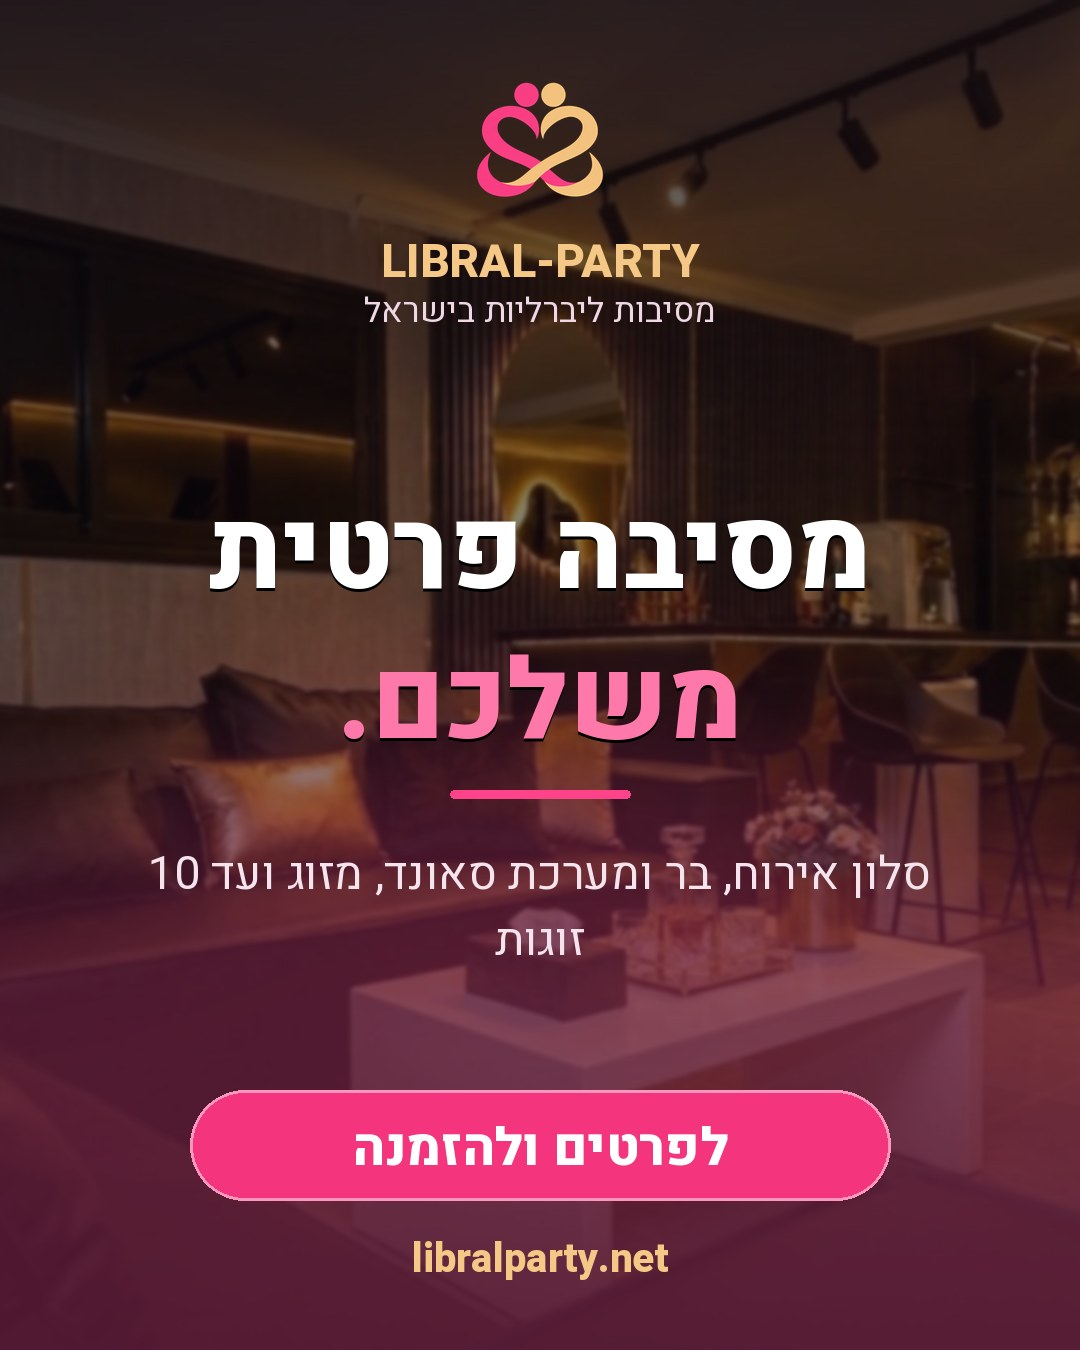
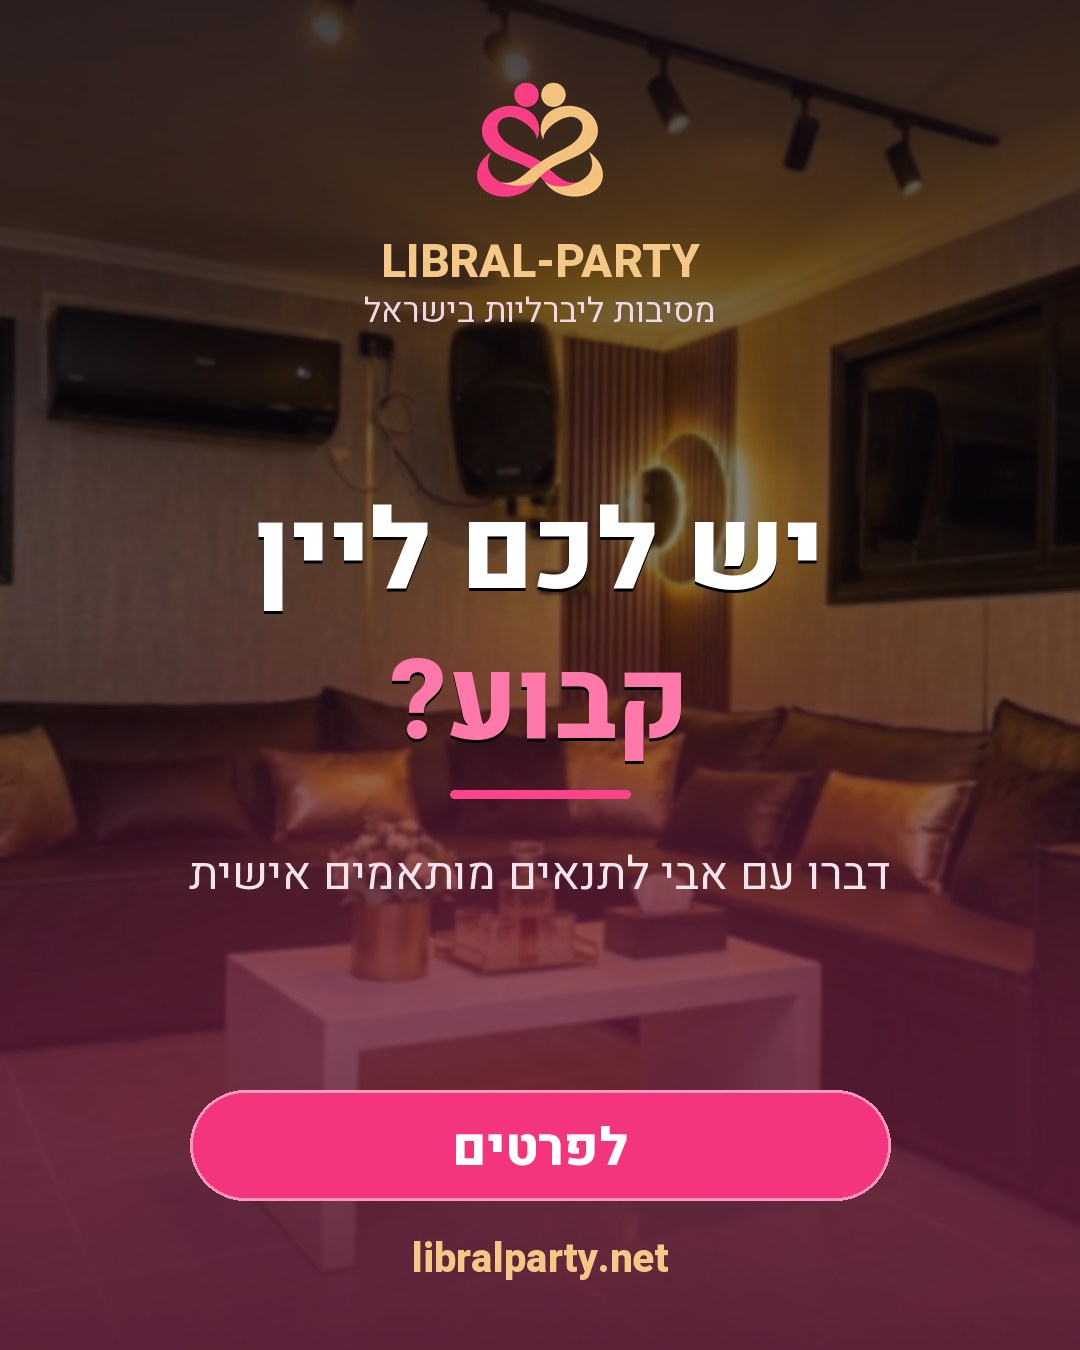
Monthly Telegram campaigns refresh (2026-11)
Claude-Session: https://claude.ai/code/session_01MnETpxBKVPfyu1WyzPnxXv

diff --git a/shared/telegramCampaigns.js b/shared/telegramCampaigns.js
@@ -1,64 +1,64 @@
 // Generated by scripts/campaigns/make_campaigns.py — do not edit by hand.
-export const TELEGRAM_CAMPAIGNS_VERSION = "2026-10-28";
+export const TELEGRAM_CAMPAIGNS_VERSION = "2026-11-01";
 export const TELEGRAM_CAMPAIGNS = [
   {
     "id": "c01",
     "image": "https://www.libralparty.net/assets/campaigns/c01.jpg",
-    "caption": "📣 עדכון חשוב: LIBRAL PARTY בניהול חדש!\nהאתר עובר לניהול של אבי סווינגרס. כל המסיבות של המועדון מופיעות באתר, וההרשמה נעשית בוואטסאפ מול אבי.\n\n👇 כל המסיבות באתר:\nhttps://www.libralparty.net/"
+    "caption": "🆕 האתר של המועדון של אבי סווינגרס מחכה לכם!\nכל המסיבות הקרובות בדף אחד, וההרשמה בהודעה אחת בוואטסאפ.\n\n👇 כניסה לאתר:\nhttps://www.libralparty.net/"
   },
   {
     "id": "c02",
     "image": "https://www.libralparty.net/assets/campaigns/c02.jpg",
-    "caption": "✨ הסוויטה הליברלית פתוחה להזמנות!\nסוויטת אירוח יוקרתית, מזוג אחד ועד 10 זוגות, עם פרטיות מלאה.\n\n👇 כל הפרטים והמחירון:\nhttps://www.libralparty.net/liberal-suite"
+    "caption": "🍸 ערב פרטי בסוויטה הליברלית!\nסלון אירוח מפנק עם בר יוקרתי, מערכות סאונד מתקדמות ואזור מרווח לריקודים.\n\n👇 לפרטים ולהזמנה:\nhttps://www.libralparty.net/liberal-suite"
   },
   {
     "id": "c03",
     "image": "https://www.libralparty.net/assets/campaigns/c03.jpg",
-    "caption": "🔥 המסיבות של המועדון של אבי סווינגרס!\nכל התאריכים הקרובים מופיעים באתר. בוחרים מסיבה ונרשמים בוואטסאפ מול אבי.\n\n👇 המסיבות הקרובות:\nhttps://www.libralparty.net/events"
+    "caption": "🎶 מה קורה בסוף השבוע?\nכל המסיבות הקרובות של המועדון באתר, עם התאריכים.\n\n👇 בוחרים לילה:\nhttps://www.libralparty.net/events"
   },
   {
     "id": "c04",
     "image": "https://www.libralparty.net/assets/campaigns/c04.jpg",
-    "caption": "🎂 יום הולדת שלא שוכחים!\nימי הולדת ומסיבות פרטיות ברמת פרימיום, בסוויטה הליברלית.\n\n👇 לפרטים ולהזמנה:\nhttps://www.libralparty.net/liberal-suite"
+    "caption": "🛏 סוויטה ברמה אחרת!\nחלל מעוצב ברמת גימור גבוהה, עם מיטות ענק יוקרתיות.\n\n👇 לפרטים ולהזמנה:\nhttps://www.libralparty.net/liberal-suite"
   },
   {
     "id": "c05",
     "image": "https://www.libralparty.net/assets/campaigns/c05.jpg",
-    "caption": "💬 ההרשמה למסיבות פשוטה!\nבוחרים מסיבה באתר, לוחצים על \"הרשמה בוואטסאפ\" ושולחים הודעה לאבי. הוא חוזר אליכם עם כל הפרטים.\n\n👇 בוחרים מסיבה:\nhttps://www.libralparty.net/events"
+    "caption": "💬 הודעה אחת וסגרתם מסיבה!\nלוחצים על \"הרשמה בוואטסאפ\" ליד המסיבה, ואבי חוזר אליכם עם כל הפרטים.\n\n👇 בוחרים מסיבה:\nhttps://www.libralparty.net/events"
   },
   {
     "id": "c06",
     "image": "https://www.libralparty.net/assets/campaigns/c06.jpg",
-    "caption": "🌙 חדש בסוויטה הליברלית: אפטרים גם בלילה!\nשש שעות של חופש, על בסיס מקום פנוי.\n\n👇 לבדיקת זמינות:\nhttps://www.libralparty.net/liberal-suite"
+    "caption": "🌙 אפטר בלילה? אפשר!\nשש שעות בסוויטה הליברלית, על בסיס מקום פנוי. לבדיקת זמינות פונים לאבי.\n\n👇 לפרטים:\nhttps://www.libralparty.net/liberal-suite"
   },
   {
     "id": "c07",
     "image": "https://www.libralparty.net/assets/campaigns/c07.jpg",
-    "caption": "🎉 סוף השבוע מתחיל במועדון של אבי סווינגרס!\nכל המסיבות הקרובות באתר, וההרשמה בוואטסאפ.\n\n👇 המסיבות הקרובות:\nhttps://www.libralparty.net/events"
+    "caption": "📅 מפנים מקום ביומן!\nלוח המסיבות של המועדון מחכה לכם, תאריך אחרי תאריך.\n\n👇 ללוח האירועים:\nhttps://www.libralparty.net/calendar"
   },
   {
     "id": "c08",
     "image": "https://www.libralparty.net/assets/campaigns/c08.jpg",
-    "caption": "🌹 ערב זוגי ברמה אחרת.\nלינה וערב רומנטי ומיוחד בסוויטה הליברלית, בפרטיות מלאה.\n\n👇 לפרטים ולהזמנה:\nhttps://www.libralparty.net/liberal-suite"
+    "caption": "🥂 מזוג אחד ועד עשרה זוגות!\nסוויטת אירוח אקסקלוסיבית, בפרטיות מלאה.\n\n👇 לפרטים ולהזמנה:\nhttps://www.libralparty.net/liberal-suite"
   },
   {
     "id": "c09",
     "image": "https://www.libralparty.net/assets/campaigns/c09.jpg",
-    "caption": "📅 כל המסיבות של המועדון בלוח אחד!\nמפנים מקום ביומן ובוחרים את הלילה הבא.\n\n👇 ללוח האירועים:\nhttps://www.libralparty.net/calendar"
+    "caption": "✨ ערב בלתי נשכח מחכה במועדון של אבי סווינגרס!\nכל המסיבות הקרובות באתר.\n\n👇 למסיבות:\nhttps://www.libralparty.net/events"
   },
   {
     "id": "c10",
     "image": "https://www.libralparty.net/assets/campaigns/c10.jpg",
-    "caption": "🖤 מתחם אבזור מושקע בסוויטה הליברלית!\nנדנדת פליי, חמור, ספת טנטרה וצלב, וחדר רחצה מרהיב.\n\n👇 לכל הפרטים:\nhttps://www.libralparty.net/liberal-suite"
+    "caption": "💦 חדר רחצה מרהיב, ענק ושקוף, במרכז הסוויטה הליברלית!\n\n👇 לפרטים ולהזמנה:\nhttps://www.libralparty.net/liberal-suite"
   },
   {
     "id": "c11",
     "image": "https://www.libralparty.net/assets/campaigns/c11.jpg",
-    "caption": "🌙 הלילה הבא מתחיל כאן!\nכל המסיבות של המועדון של אבי סווינגרס, באתר אחד.\n\n👇 כניסה לאתר:\nhttps://www.libralparty.net/"
+    "caption": "📲 מסיבות חדשות עולות באתר!\nמצטרפים לקבוצת הוואטסאפ ולא מפספסים אף מסיבה.\n\n👇 להצטרפות לקבוצה:\nhttps://chat.whatsapp.com/LHo4Spoy73b38mDI5XEcF7"
   },
   {
     "id": "c12",
     "image": "https://www.libralparty.net/assets/campaigns/c12.jpg",
-    "caption": "🥂 מסיבה פרטית משלכם!\nסלון אירוח מפנק, בר יוקרתי ומערכות סאונד, מזוג אחד ועד 10 זוגות.\n\n👇 לפרטים ולהזמנה:\nhttps://www.libralparty.net/liberal-suite"
+    "caption": "🔁 ליין קבוע בסוויטה?\nדברו עם אבי לתנאים מותאמים אישית.\n\n👇 לפרטים:\nhttps://www.libralparty.net/liberal-suite"
   }
 ];

diff --git a/scripts/campaigns/make_campaigns.py b/scripts/campaigns/make_campaigns.py
@@ -27,31 +27,31 @@ BG = {
 # Campaigns are only about Avi Swingers' club (the parties on the site, registration by WhatsApp with Avi)
 # and the Liberal Suite advertised on the site. Never about balancing, memberships or site accounts.
 CAMPAIGNS = [
-    # The news first: the site's new management
-    ("n1", "dance", ["ניהול חדש לאתר:", "אבי סווינגרס."], "כל המסיבות של המועדון באתר אחד, וההרשמה בוואטסאפ מול אבי", "כניסה לאתר", "/",
-     "📣 עדכון חשוב: LIBRAL PARTY בניהול חדש!\nהאתר עובר לניהול של אבי סווינגרס. כל המסיבות של המועדון מופיעות באתר, וההרשמה נעשית בוואטסאפ מול אבי.\n\n👇 כל המסיבות באתר:"),
-    ("s1", "suite", ["הסוויטה הליברלית", "פתוחה להזמנות."], "סוויטת יוקרה לזוג אחד ועד 10 זוגות", "לפרטים ולהזמנה", "/liberal-suite",
-     "✨ הסוויטה הליברלית פתוחה להזמנות!\nסוויטת אירוח יוקרתית, מזוג אחד ועד 10 זוגות, עם פרטיות מלאה.\n\n👇 כל הפרטים והמחירון:"),
-    ("k1", "pool", ["המסיבות של", "המועדון של אבי."], "כל התאריכים הקרובים מחכים באתר", "לכל המסיבות", "/events",
-     "🔥 המסיבות של המועדון של אבי סווינגרס!\nכל התאריכים הקרובים מופיעים באתר. בוחרים מסיבה ונרשמים בוואטסאפ מול אבי.\n\n👇 המסיבות הקרובות:"),
-    ("s2", "suitelounge", ["יום הולדת", "בלתי נשכח."], "ימי הולדת ומסיבות פרטיות בסוויטה הליברלית", "לפרטים ולהזמנה", "/liberal-suite",
-     "🎂 יום הולדת שלא שוכחים!\nימי הולדת ומסיבות פרטיות ברמת פרימיום, בסוויטה הליברלית.\n\n👇 לפרטים ולהזמנה:"),
-    ("k2", "lounge", ["נרשמים בוואטסאפ", "מול אבי."], "בוחרים מסיבה באתר ושולחים הודעה, זה הכל", "לכל המסיבות", "/events",
-     "💬 ההרשמה למסיבות פשוטה!\nבוחרים מסיבה באתר, לוחצים על \"הרשמה בוואטסאפ\" ושולחים הודעה לאבי. הוא חוזר אליכם עם כל הפרטים.\n\n👇 בוחרים מסיבה:"),
-    ("s3", "suitebar", ["אפטר בלילה?", "יש לנו מקום."], "אפטרים של 6 שעות, לפי מקום פנוי", "לבדיקת זמינות", "/liberal-suite",
-     "🌙 חדש בסוויטה הליברלית: אפטרים גם בלילה!\nשש שעות של חופש, על בסיס מקום פנוי.\n\n👇 לבדיקת זמינות:"),
-    ("k3", "dance", ["סוף השבוע", "מתחיל במועדון."], "המסיבות הקרובות של אבי סווינגרס", "למסיבות הקרובות", "/events",
-     "🎉 סוף השבוע מתחיל במועדון של אבי סווינגרס!\nכל המסיבות הקרובות באתר, וההרשמה בוואטסאפ.\n\n👇 המסיבות הקרובות:"),
-    ("s4", "suite", ["ערב זוגי", "ברמה אחרת."], "לינה וערב רומנטי בסוויטה הליברלית", "לפרטים ולהזמנה", "/liberal-suite",
-     "🌹 ערב זוגי ברמה אחרת.\nלינה וערב רומנטי ומיוחד בסוויטה הליברלית, בפרטיות מלאה.\n\n👇 לפרטים ולהזמנה:"),
-    ("k4", "social", ["לוח המסיבות", "של המועדון."], "מפנים מקום ביומן ובוחרים את הלילה הבא", "ללוח האירועים", "/calendar",
-     "📅 כל המסיבות של המועדון בלוח אחד!\nמפנים מקום ביומן ובוחרים את הלילה הבא.\n\n👇 ללוח האירועים:"),
-    ("s5", "suitesofa", ["מתחם אבזור", "מושקע."], "נדנדה, ספת טנטרה וצלב, בסוויטה הליברלית", "לפרטים ולהזמנה", "/liberal-suite",
-     "🖤 מתחם אבזור מושקע בסוויטה הליברלית!\nנדנדת פליי, חמור, ספת טנטרה וצלב, וחדר רחצה מרהיב.\n\n👇 לכל הפרטים:"),
-    ("k5", "pool", ["הלילה הבא", "מתחיל כאן."], "המועדון של אבי סווינגרס, כל המסיבות באתר", "כניסה לאתר", "/",
-     "🌙 הלילה הבא מתחיל כאן!\nכל המסיבות של המועדון של אבי סווינגרס, באתר אחד.\n\n👇 כניסה לאתר:"),
-    ("s6", "suitelounge", ["מסיבה פרטית", "משלכם."], "סלון אירוח, בר ומערכת סאונד, מזוג ועד 10 זוגות", "לפרטים ולהזמנה", "/liberal-suite",
-     "🥂 מסיבה פרטית משלכם!\nסלון אירוח מפנק, בר יוקרתי ומערכות סאונד, מזוג אחד ועד 10 זוגות.\n\n👇 לפרטים ולהזמנה:"),
+    # What is new first
+    ("n2", "dance", ["האתר החדש", "של המועדון."], "כל המסיבות בדף אחד, והרשמה בהודעה אחת בוואטסאפ", "כניסה לאתר", "/",
+     "🆕 האתר של המועדון של אבי סווינגרס מחכה לכם!\nכל המסיבות הקרובות בדף אחד, וההרשמה בהודעה אחת בוואטסאפ.\n\n👇 כניסה לאתר:"),
+    ("s1", "suitebar", ["ערב פרטי", "בסוויטה."], "בר יוקרתי, סאונד מתקדם ואזור לריקודים", "לפרטים ולהזמנה", "/liberal-suite",
+     "🍸 ערב פרטי בסוויטה הליברלית!\nסלון אירוח מפנק עם בר יוקרתי, מערכות סאונד מתקדמות ואזור מרווח לריקודים.\n\n👇 לפרטים ולהזמנה:"),
+    ("k1", "pool", ["מה קורה", "בסוף השבוע?"], "המסיבות הקרובות של אבי סווינגרס מחכות באתר", "למסיבות הקרובות", "/events",
+     "🎶 מה קורה בסוף השבוע?\nכל המסיבות הקרובות של המועדון באתר, עם התאריכים.\n\n👇 בוחרים לילה:"),
+    ("s2", "suite", ["מיטות ענק", "וחופש מוחלט."], "עיצוב יוקרתי ברמת הגימור הגבוהה ביותר", "לפרטים ולהזמנה", "/liberal-suite",
+     "🛏 סוויטה ברמה אחרת!\nחלל מעוצב ברמת גימור גבוהה, עם מיטות ענק יוקרתיות.\n\n👇 לפרטים ולהזמנה:"),
+    ("k2", "lounge", ["הודעה אחת", "וסגרתם מסיבה."], "לוחצים על הרשמה בוואטסאפ, ואבי חוזר אליכם", "לכל המסיבות", "/events",
+     "💬 הודעה אחת וסגרתם מסיבה!\nלוחצים על \"הרשמה בוואטסאפ\" ליד המסיבה, ואבי חוזר אליכם עם כל הפרטים.\n\n👇 בוחרים מסיבה:"),
+    ("s3", "suitesofa", ["אפטר לילי", "לשש שעות."], "על בסיס מקום פנוי, ופונים לאבי לבדיקת זמינות", "לפרטים", "/liberal-suite",
+     "🌙 אפטר בלילה? אפשר!\nשש שעות בסוויטה הליברלית, על בסיס מקום פנוי. לבדיקת זמינות פונים לאבי.\n\n👇 לפרטים:"),
+    ("k3", "social", ["מפנים מקום", "ביומן."], "לוח המסיבות של המועדון, תאריך אחרי תאריך", "ללוח האירועים", "/calendar",
+     "📅 מפנים מקום ביומן!\nלוח המסיבות של המועדון מחכה לכם, תאריך אחרי תאריך.\n\n👇 ללוח האירועים:"),
+    ("s4", "suitelounge", ["מזוג אחד", "ועד עשרה זוגות."], "סוויטת אירוח אקסקלוסיבית ופרטית", "לפרטים ולהזמנה", "/liberal-suite",
+     "🥂 מזוג אחד ועד עשרה זוגות!\nסוויטת אירוח אקסקלוסיבית, בפרטיות מלאה.\n\n👇 לפרטים ולהזמנה:"),
+    ("k4", "dance", ["ערב בלתי נשכח", "מחכה במועדון."], "כל המסיבות הקרובות של אבי סווינגרס באתר", "למסיבות", "/events",
+     "✨ ערב בלתי נשכח מחכה במועדון של אבי סווינגרס!\nכל המסיבות הקרובות באתר.\n\n👇 למסיבות:"),
+    ("s5", "suite", ["חדר רחצה", "שלא ראיתם."], "ענק ושקוף, במרכז הסוויטה", "לפרטים ולהזמנה", "/liberal-suite",
+     "💦 חדר רחצה מרהיב, ענק ושקוף, במרכז הסוויטה הליברלית!\n\n👇 לפרטים ולהזמנה:"),
+    ("k5", "pool", ["מסיבות חדשות", "עולות באתר."], "מצטרפים לקבוצת הוואטסאפ ולא מפספסים", "להצטרפות לקבוצה", "https://chat.whatsapp.com/LHo4Spoy73b38mDI5XEcF7",
+     "📲 מסיבות חדשות עולות באתר!\nמצטרפים לקבוצת הוואטסאפ ולא מפספסים אף מסיבה.\n\n👇 להצטרפות לקבוצה:"),
+    ("s6", "suitesofa", ["יש לכם ליין", "קבוע?"], "דברו עם אבי לתנאים מותאמים אישית", "לפרטים", "/liberal-suite",
+     "🔁 ליין קבוע בסוויטה?\nדברו עם אבי לתנאים מותאמים אישית.\n\n👇 לפרטים:"),
 ]
 
 def merged_font(weight):
